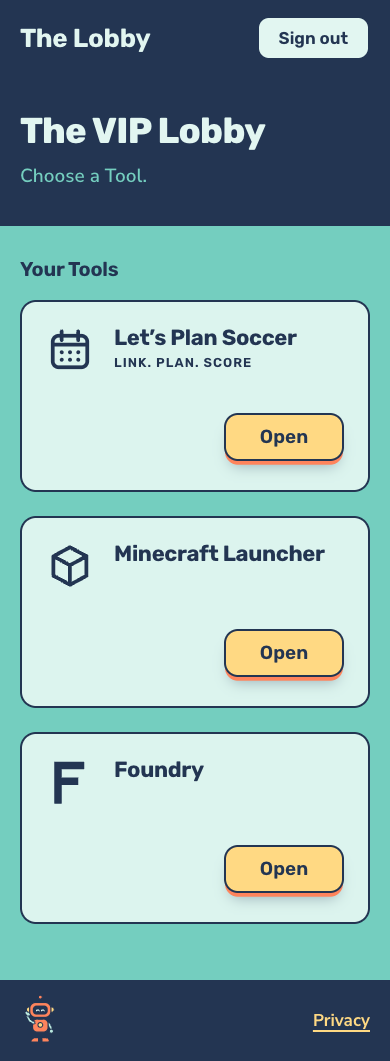
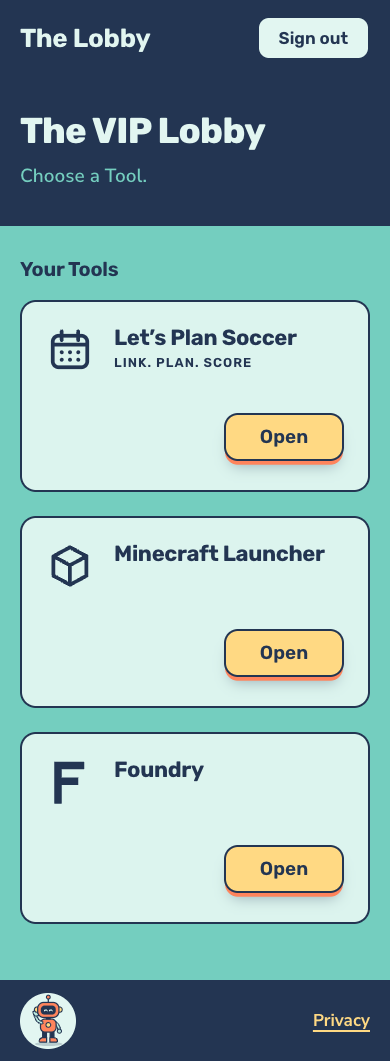
fix(ui): keep VIP footer robot visible

Changed region(s): [[0.0308, 0.9331, 0.2154, 0.9953]]

diff --git a/web/src/VipLobby.tsx b/web/src/VipLobby.tsx
@@ -66,7 +66,9 @@ export function VipLobby({ state, onRetry }: { state: LobbyState; onRetry?: () =
 
       <footer className="lobby-footer">
         <div className="lobby-footer-inner">
-          <Robot className="lobby-robot" />
+          <span className="lobby-robot-backdrop">
+            <Robot className="lobby-robot" />
+          </span>
           <a href="/privacy">Privacy</a>
         </div>
       </footer>

diff --git a/web/src/styles.css b/web/src/styles.css
@@ -763,6 +763,16 @@ a:hover {
   min-height: 5rem;
 }
 
+.lobby-frame .lobby-robot-backdrop {
+  display: grid;
+  place-items: center;
+  flex: none;
+  width: 3.5rem;
+  height: 3.5rem;
+  border-radius: 50%;
+  background: var(--seafoam-light);
+}
+
 .lobby-frame .lobby-footer a {
   color: var(--custard);
   font-weight: 700;

diff --git a/docs/design/vip-lobby-brief.md b/docs/design/vip-lobby-brief.md
@@ -29,7 +29,7 @@ Only expose destinations that are ready to use. The [original Grouped Cards prev
 
 The seafoam collection, header and footer content share a 76rem maximum width. Cards use an auto-fitting grid with a 17rem minimum column width and 1.5rem gaps. Each card has the full Tool name in bold Rubik, a larger supporting glyph, and one clear Open action at the lower right. The Let's Plan Soccer card also carries its tagline, **Link. Plan. Score**, under the name. Section labels are smaller at 1.25rem, weight 650. Keep the same stable ordering after filtering by access; do not leave placeholders or numbered gaps for hidden Tools. A single card is capped at 30rem.
 
-Preserve Local Co-op's seafoam collection field, pale card surfaces, deep navy text and outlines, custard actions, coral tactile detail, and mature rounded type character. The footer repeats the navy frame, with a custard Privacy link and the decorative 40px robot. No realistic people, large welcome illustration, or marketing-scale title. The accepted spacing uses 2.75rem vertical title-band padding and 1.75rem card padding on desktop; under 40rem these become 2.2rem and 1.5rem. Glyphs are 3.75rem on desktop and 3rem under 40rem.
+Preserve Local Co-op's seafoam collection field, pale card surfaces, deep navy text and outlines, custard actions, coral tactile detail, and mature rounded type character. The footer repeats the navy frame, with a custard Privacy link and the decorative 40px robot on a 56px pale seafoam circle so its navy details remain visible. No realistic people, large welcome illustration, or marketing-scale title. The accepted spacing uses 2.75rem vertical title-band padding and 1.75rem card padding on desktop; under 40rem these become 2.2rem and 1.5rem. Glyphs are 3.75rem on desktop and 3rem under 40rem.
 
 Keep the recognizable glyphs and full labels together, especially for Minecraft Launcher versus Minecraft Admin and Foundry versus Foundry Admin. The signature interaction is a restrained tactile response on the Open control. The layout introduces no server status, activity feed, recent-use history, search, personalization controls, or Tool-specific operations.
 

diff --git a/DESIGN.md b/DESIGN.md
@@ -292,7 +292,7 @@ Chunky, tactile and unmistakably pressable.
 Three navy dots (0.55rem) that pulse and rise 3px in sequence beside a Nunito Sans 600 sentence; the area reserves 11rem so the page does not jump when Tools arrive.
 
 ### The Ground and the Host (signature)
-The welcome footer stands on a navy ground wave that runs edge to edge into a navy bar holding the public link and Privacy. The robot host (coral body, navy outlines, custard cheeks and chest light, limb-coloured arms, smiling seafoam eyes) stands on that ground and waves once, 0.5s after arrival, over 1.6s. In the VIP Lobby it appears static at 40px in the footer. On each Tool interior it stands at 6rem on the shared terrace's landing, or 4.75rem on phones. It is always decorative and hidden from assistive technology.
+The welcome footer stands on a navy ground wave that runs edge to edge into a navy bar holding the public link and Privacy. The robot host (coral body, navy outlines, custard cheeks and chest light, limb-coloured arms, smiling seafoam eyes) stands on that ground and waves once, 0.5s after arrival, over 1.6s. In the VIP Lobby it appears static at 40px in the footer. A 56px pale seafoam circle behind it keeps its navy outlines and legs visible against the navy footer; the backdrop is decorative, flat and noninteractive. On each Tool interior it stands at 6rem on the shared terrace's landing, or 4.75rem on phones. It is always decorative and hidden from assistive technology.
 
 ### The block motif (shared Tool world)
 The Tool pages share an original isometric drawing family, number tiles and stepped ground. Keep the mint palette, navy outlines, clear task order and tactile controls consistent. Each miniature stays decorative; words and live controls carry the information.

diff --git a/docs/design/previews/README.md b/docs/design/previews/README.md
@@ -1,6 +1,6 @@
 # VIP Lobby review captures
 
-Captured on 2026-11-07 from the local Vite render of `web/src/VipLobby.tsx`, after integrating Navy Frame with current main.
+Captured from the local Vite render of `web/src/VipLobby.tsx`, after integrating Navy Frame with current main. Refreshed on 2026-11-09 to show the pale seafoam backdrop behind the footer robot.
 
 - `vip-lobby-navy-frame-desktop.png`: 1440 × 1000 viewport.
 - `vip-lobby-navy-frame-phone.png`: 390 × 844 viewport, full-page capture.
